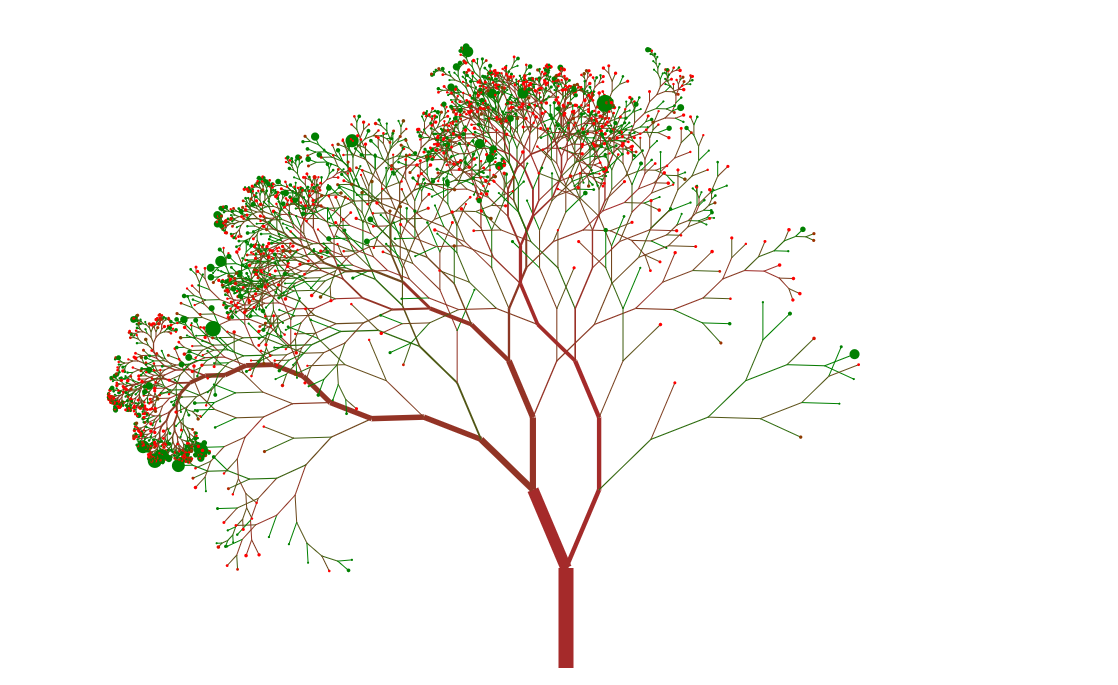
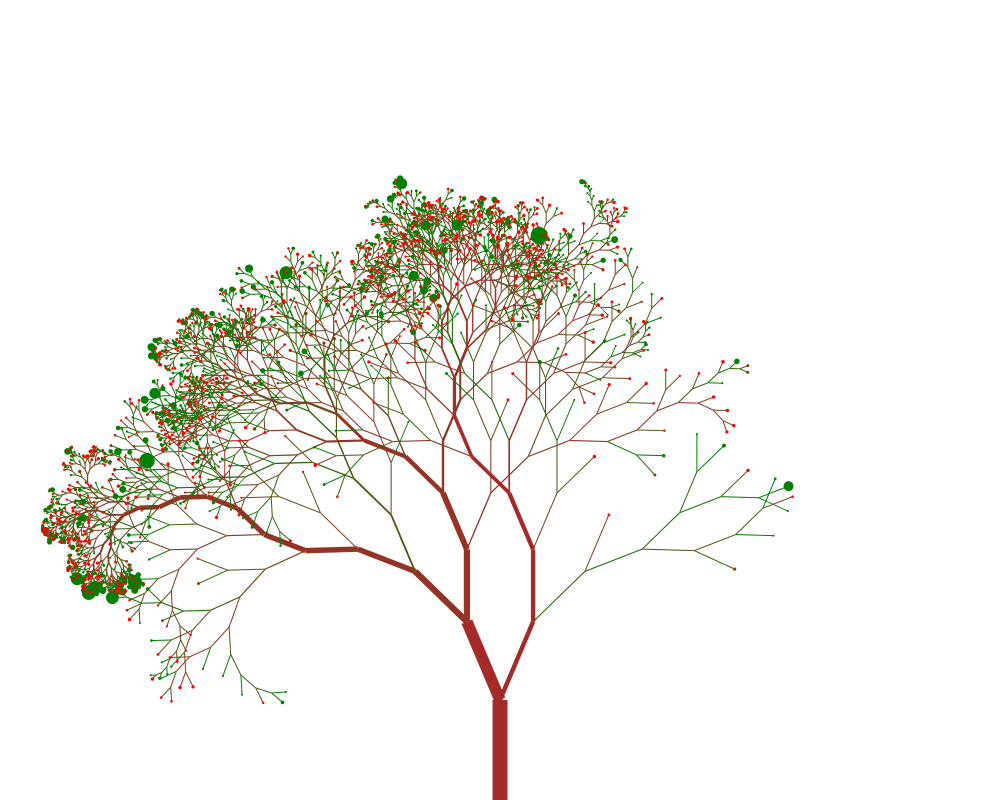
implemented backend renderer which works on the same code as the frontend renderer

diff --git a/app/main.js b/app/main.js
@@ -1,13 +1,17 @@
 import * as d3 from "d3";
-import {drawTree, resetTree} from "./draw.mjs";
+import {drawTree, resetTree} from "../draw.mjs";
+import TreeNode from "../TreeNode.mjs";
 
 (async function() {
     const forest = await (await fetch("http://localhost:3000/data")).json();
+    forest.trees = forest.trees.map(tree => new TreeNode(tree));
+
+    const treeSvg = d3.select('#tree');
 
 	function updateTreeVisualization(treeId) {
-        resetTree(d3);
+        resetTree(treeSvg);
         drawTree({
-            d3: d3,
+            svg: treeSvg,
             tree: forest.trees[treeId],
             totalSamples: forest.totalSamples
 		});
